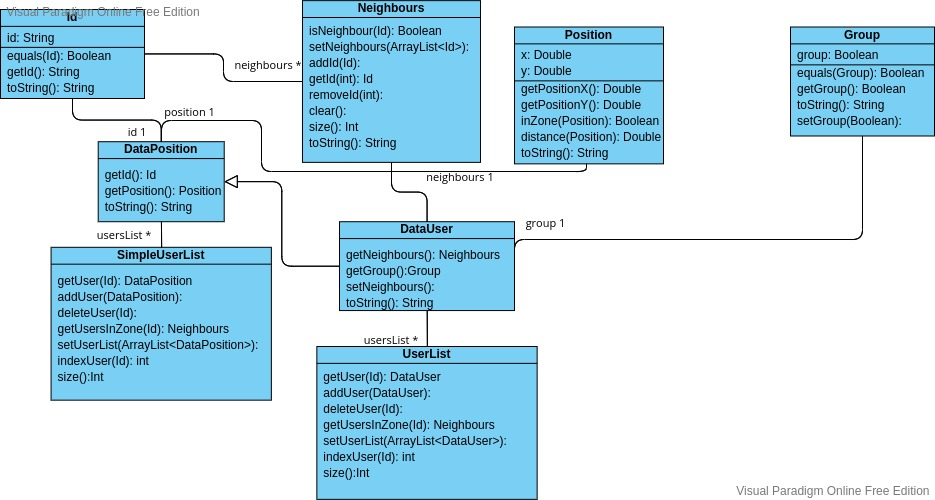
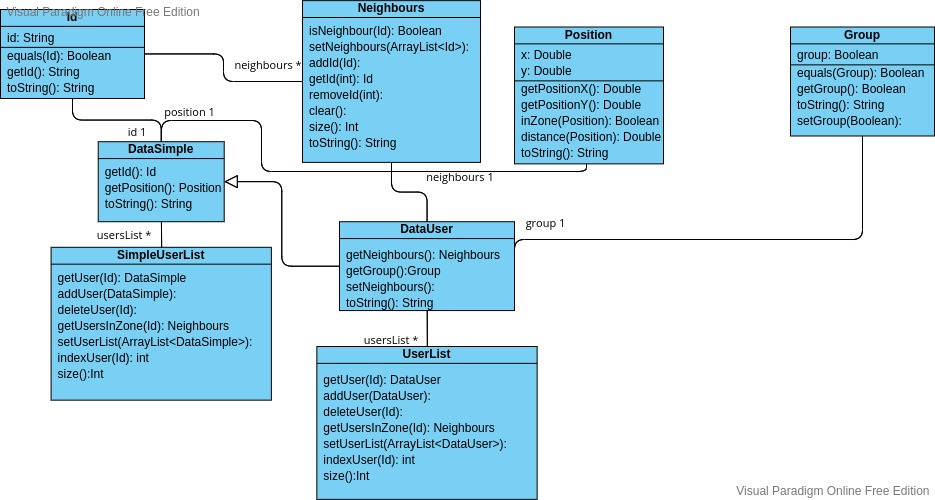
Commented DataStructure classes code using JavaDoc.

Changed region(s): [[0.062, 0.54, 0.2791, 0.78], [0.3412, 0.75, 0.5583, 0.96], [0.093, 0.27, 0.2481, 0.42]]

diff --git a/src/DataStructure/Position.java b/src/DataStructure/Position.java
@@ -1,5 +1,10 @@
 package DataStructure;
 
+/**
+ * Position class identify the position of a user in a two-dimensional plane.
+ * @version /26/09/2022/
+ */
+
 public class Position {
 
     private double x;
@@ -24,6 +29,10 @@ public class Position {
     }
 
     public double distance(Position pos){
+        /**
+         * This function get the distance between to positions in a two-dimensional plane.
+         * |u1-u2| = sqrt((u1x-u2x)²+(u1y-u2y)²
+         */
         return Math.sqrt((Math.pow((this.x-pos.getPositionX()), 2))+
                 (Math.pow((this.y-pos.getPositionY()), 2)));
     }

diff --git a/src/DataStructure/SimpleUserList.java b/src/DataStructure/SimpleUserList.java
@@ -1,11 +1,14 @@
 package DataStructure;
-
 import java.util.ArrayList;
 
+/**
+ *Class SimpleUserList is a List of Simple information of users.
+ * @see DataSimple
+ * @version /26/09/2022/
+ */
 public class SimpleUserList {
 
-    //private ArrayList<DataPosition> usersList;
-    public ArrayList<DataSimple> usersList;
+    private ArrayList<DataSimple> usersList;
 
     public SimpleUserList(){
         usersList = new ArrayList<DataSimple>();

diff --git a/src/DataStructure/DataUser.java b/src/DataStructure/DataUser.java
@@ -1,5 +1,11 @@
 package DataStructure;
-
+/**
+ * Class representation of the information of one user.
+ * @see DataSimple
+ * @see Neighbours
+ * @see Group
+ * @version /26/09/2022/
+ */
 public class DataUser extends DataSimple{
 
     private Neighbours neighbours;

diff --git a/src/DataStructure/UserList.java b/src/DataStructure/UserList.java
@@ -1,7 +1,10 @@
 package DataStructure;
-
 import java.util.ArrayList;
-
+/**
+ *Class UserList is a List of all information about the users.
+ * @see DataUser
+ * @version /26/09/2022/
+ */
 public class UserList{
 
     //private ArrayList<DataUser> usersList;

diff --git a/src/DataStructure/Neighbours.java b/src/DataStructure/Neighbours.java
@@ -1,7 +1,13 @@
 package DataStructure;
 import java.util.ArrayList;
 
+/**
+ * Neighbours class is used to represent a list of users.
+ * @see Id
+ * @version /26/09/2022/
+ */
 public class Neighbours {
+
 
     private ArrayList<Id> neighbours;
 

diff --git a/src/DataStructure/DataSimple.java b/src/DataStructure/DataSimple.java
@@ -1,5 +1,11 @@
 package DataStructure;
 
+/**
+ * Class representation of simple information of one user.
+ * @see Id
+ * @see Position
+ * @version 1
+ */
 public class DataSimple {
     private Id id;
     private Position position;

diff --git a/src/DataStructure/Group.java b/src/DataStructure/Group.java
@@ -1,6 +1,10 @@
 package DataStructure;
-
+/**
+ * Group class identify to what group the user belongs to.
+ * @version /26/09/2022/
+ */
 public class Group {
+
     private boolean group;
 
     public Group(boolean group){

diff --git a/src/DataStructure/Id.java b/src/DataStructure/Id.java
@@ -1,4 +1,8 @@
 package DataStructure;
+/**
+ *Id class has the purpose of identifying each user in the data structure.
+ * @version /26/09/2022/
+ */
 
 public class Id {
     private String id;
